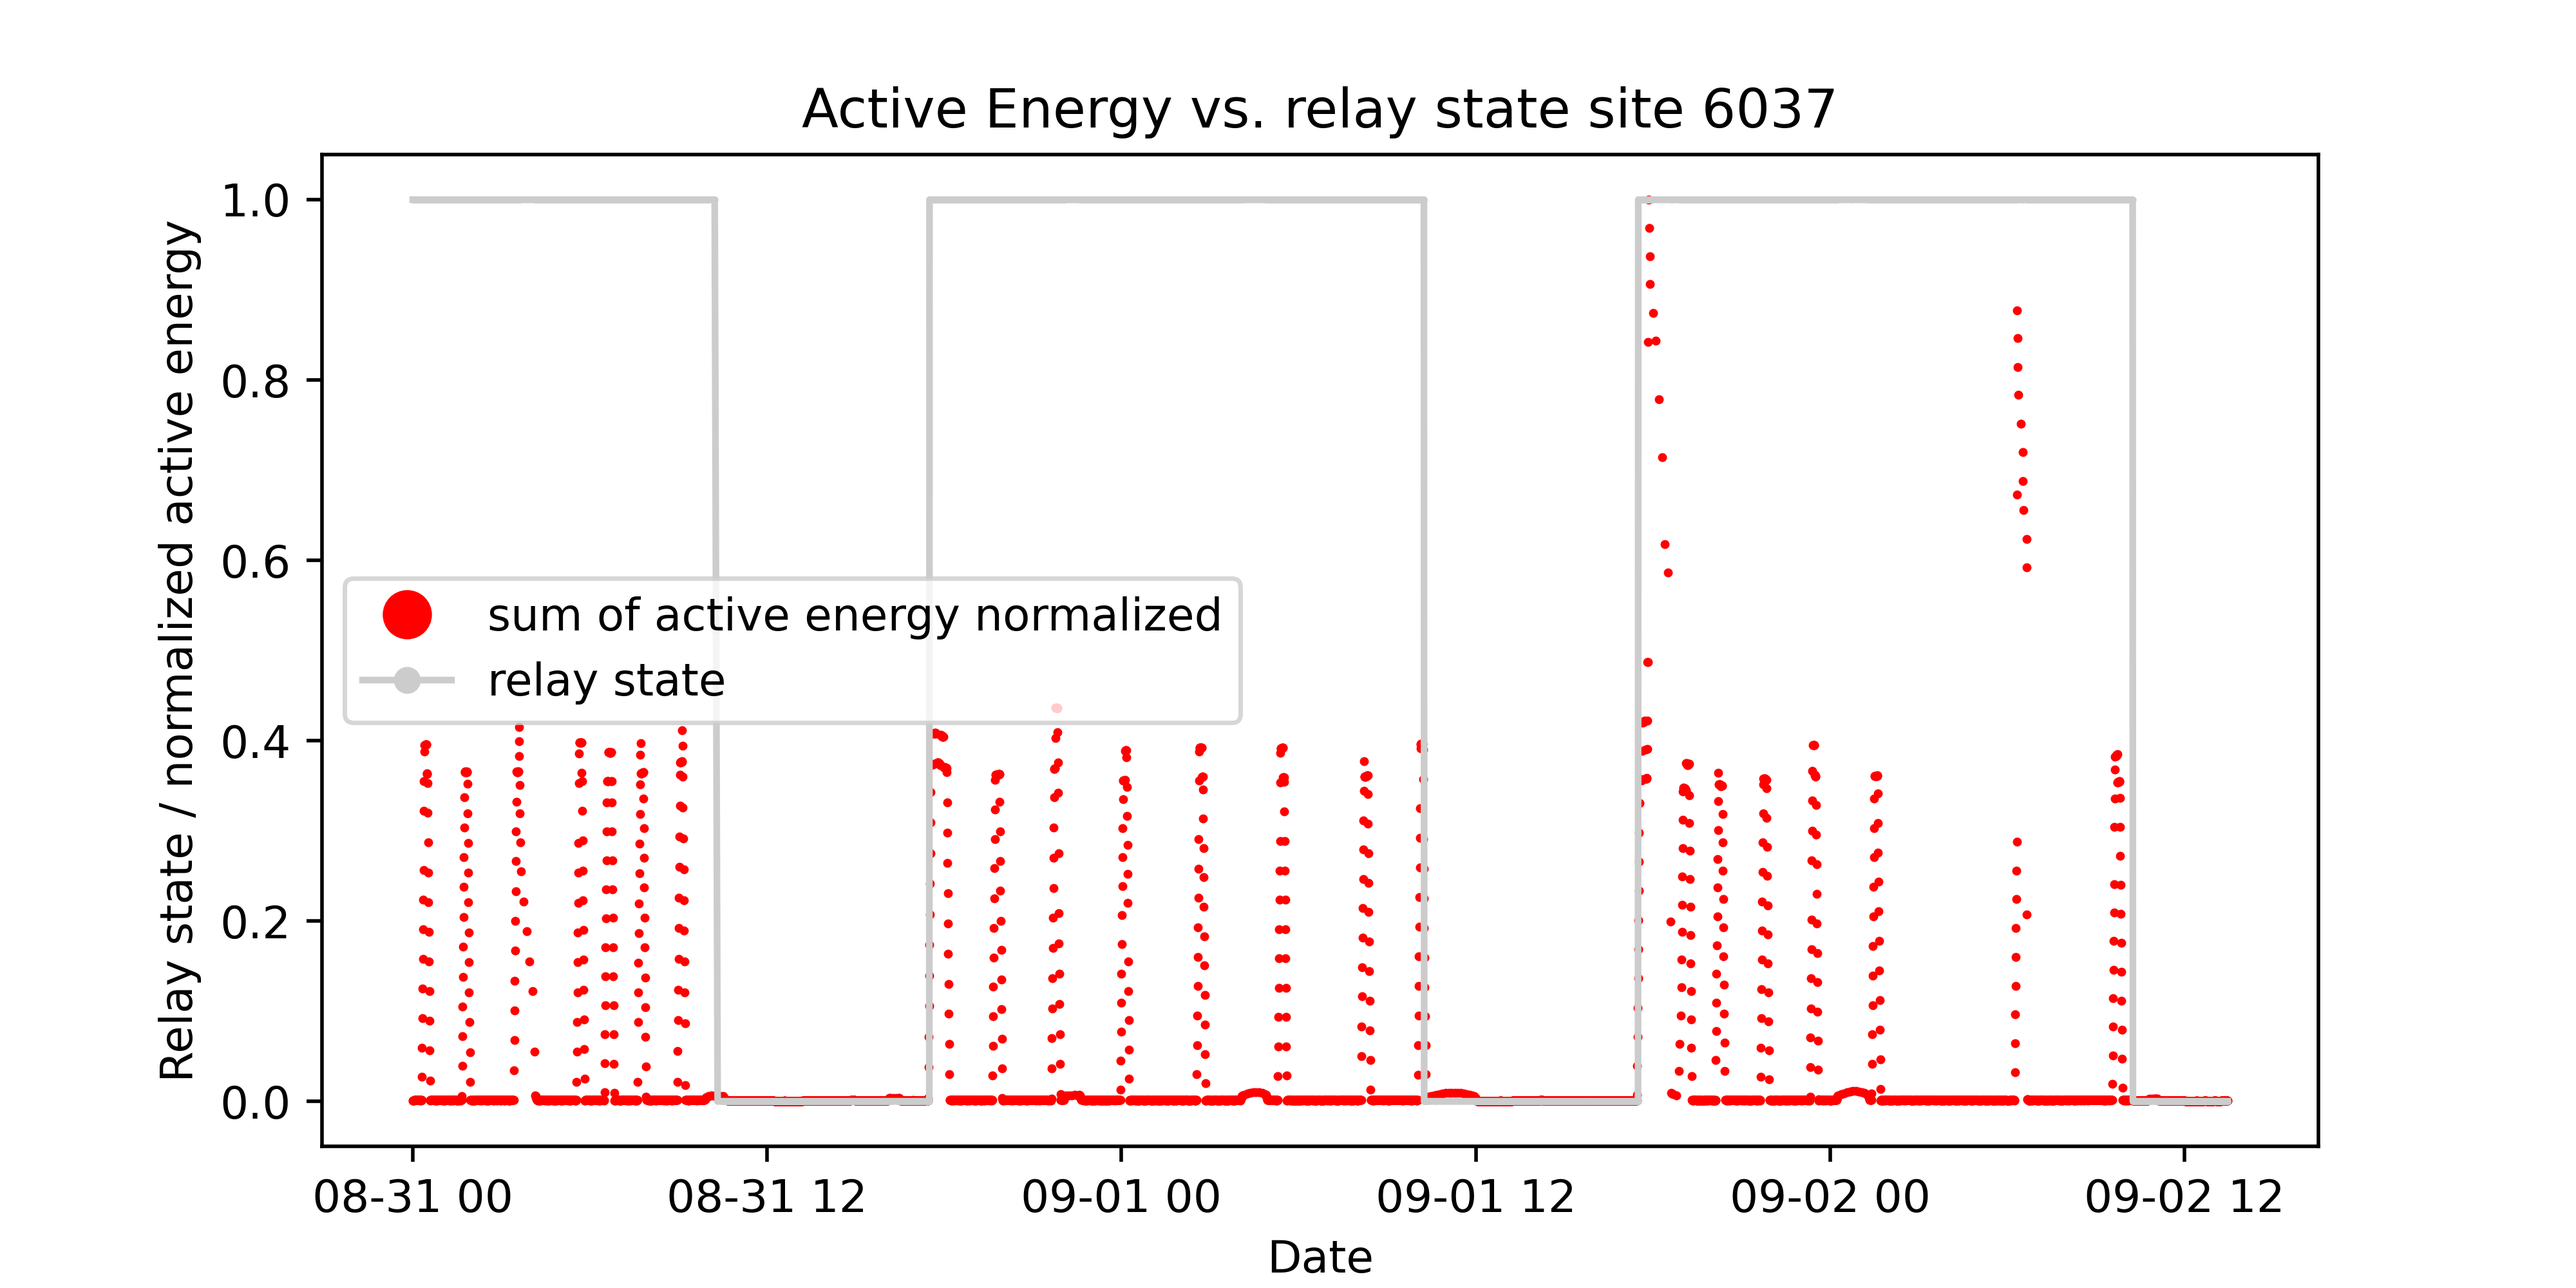
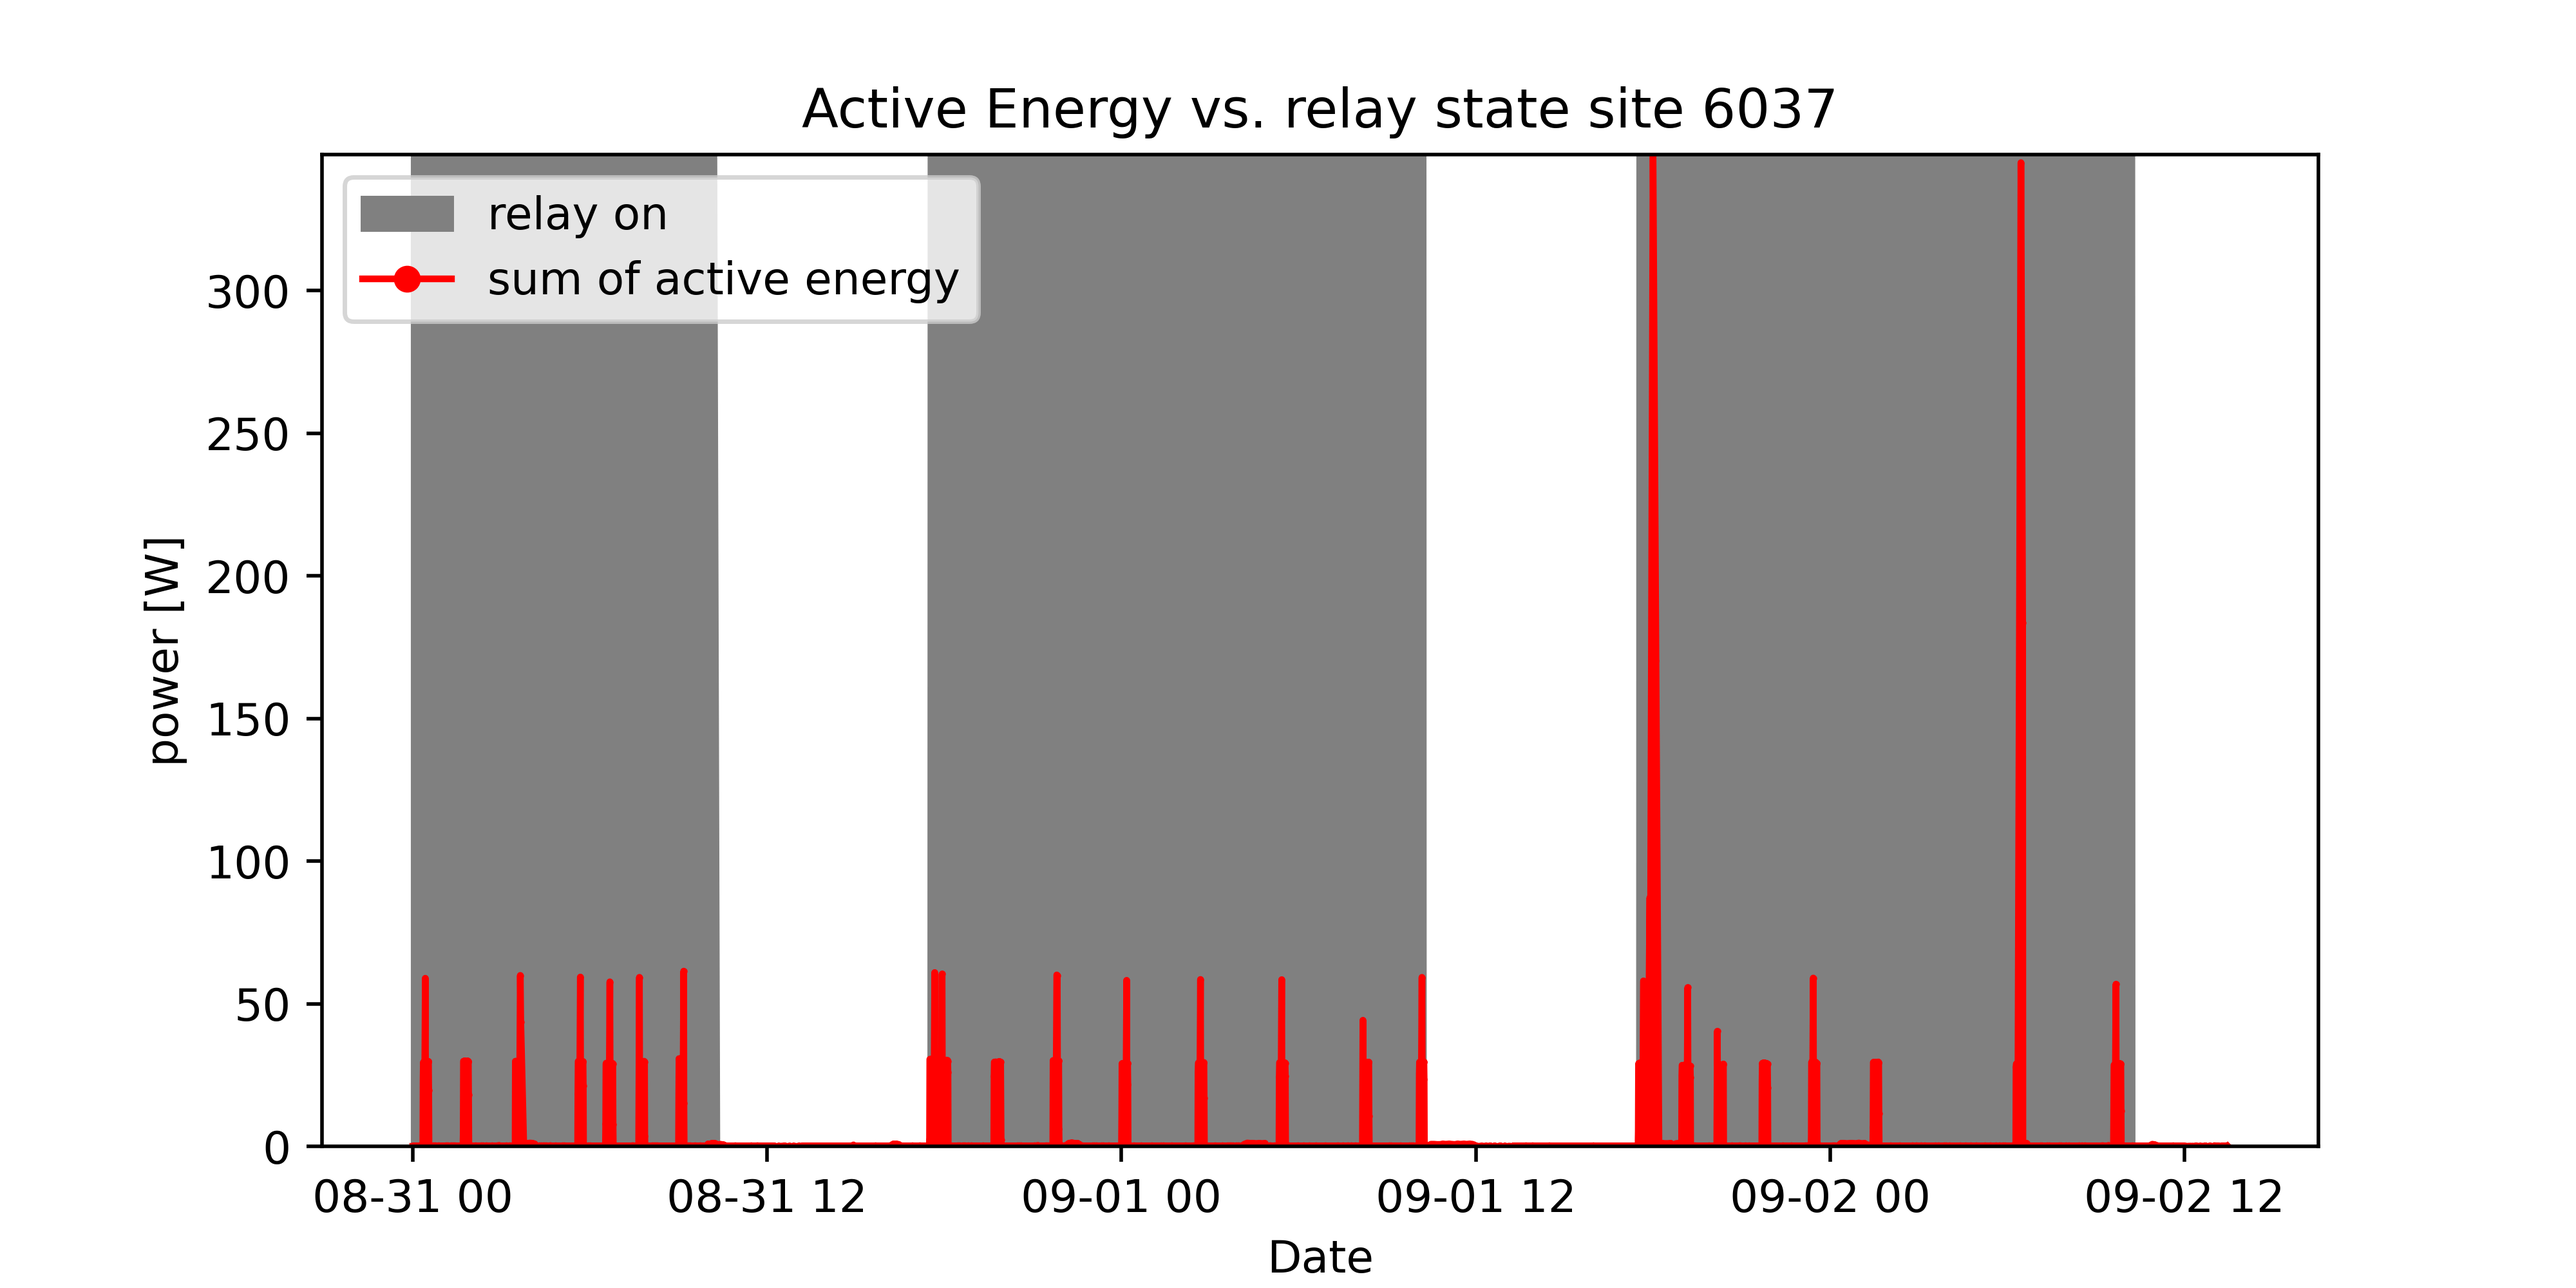
add plots

diff --git a/src/plot_active_energy_relay_one_device.py b/src/plot_active_energy_relay_one_device.py
@@ -5,7 +5,7 @@ import datetime as dt
 import numpy as np
 import json
 import re
-
+import os
 
 
 def normalize(values: list) -> list:
@@ -62,13 +62,22 @@ def plot_data(path: str):
 
     plt.figure(figsize=(8, 4))
     # use diff values because other values store the absolute values
+    # multiply by 0.012 to get kW (units are 0.1Wh/30 sec)
     active_energy_values = [
-        data["L1_active_energy_diff"][idx]
-        + data["L2_active_energy_diff"][idx]
-        + data["L3_active_energy_diff"][idx]
+        (
+            data["L1_active_energy_diff"][idx]
+            + data["L2_active_energy_diff"][idx]
+            + data["L3_active_energy_diff"][idx]
+        )
+        * 0.012
         for idx in data["L1_active_energy_diff"].keys()
     ]
-    active_energy_values_running_mean = get_running_mean(active_energy_values, 1)
+
+    # if influence_range=0, no running mean is calculated
+    active_energy_values_running_mean = get_running_mean(
+        active_energy_values, influence_range=0
+    )
+    max_value = max(active_energy_values_running_mean)
 
     # convert strings of timestamps to datetime objects for plotting
     x_values = np.array(list(data["Timestamp"].values()))
@@ -76,28 +85,35 @@ def plot_data(path: str):
         dt.datetime.strptime(x_value, "%Y-%m-%d %H:%M:%S") for x_value in x_values
     ]
 
-    plt.plot(
-        x_values_dates,
-        data["relay_state"].values(),
-        marker=".",
-        color="0.8",
-        label="relay state",
-        markersize=1.0,
-    )
+    data_relay = [
+        max_value * relay_state for relay_state in data["relay_state"].values()
+    ]
+
+    # plt.plot(
+    #     x_values_dates,
+    #     data_relay,
+    #     marker=".",
+    #     color="0.8",
+    #     label="relay state",
+    #     markersize=1.0,
+    # )
+    plt.fill_between(x_values_dates, 0.0, data_relay, color="grey", label="relay on")
     plt.plot(
         x_values_dates,
         active_energy_values_running_mean,
         marker=".",
-        linestyle="None",
         color="r",
-        label="sum of active energy normalized",
-        markersize=2.0,
+        label="sum of active energy",
+        markersize=1.0,
     )
+    plt.fill_between(x_values_dates, 0.0, active_energy_values_running_mean, color="r")
 
     plt.title("Active Energy vs. relay state site " + str(site_number))
-    plt.ylabel("Relay state / normalized active energy")
+    plt.ylabel("power [kW]")
     plt.xlabel("Date")
     plt.legend(markerscale=10.0)
+
+    plt.margins(y=0)
     plt.savefig(
         "../plots/active_energy_vs_relay_site_" + str(site_number) + ".png",
         dpi=500,
@@ -105,10 +121,34 @@ def plot_data(path: str):
     )
 
 
+def get_filelist() -> list:
+    """
+    Function to get a list of all json files one wants to include in an analysis.
+    You have to have already created a directory and included all necessary json files before calling this function.
+    """
+
+    root = tk.Tk()
+    root.withdraw()
+    print("select the path of the directory where the json data is stored")
+    directory_path = fd.askdirectory()
+    os.makedirs(directory_path + "_cleaned", exist_ok=True)
+
+    filenames = os.listdir(directory_path)
+    filenames = [file for file in filenames if file.endswith(".json")]
+
+    return [directory_path + "/" + filename for filename in filenames]
+
+
 if __name__ == "__main__":
+    # plot one file
     root = tk.Tk()
     root.withdraw()
     print("select the path of the file where the json data is stored")
     path_enflate_data = fd.askopenfilename()
 
     plot_data(path_enflate_data)
+
+    # # plot all files
+    # files = get_filelist()
+    # for file in files:
+    #     plot_data(file)

diff --git a/src/cleanup_data.py b/src/cleanup_data.py
@@ -72,11 +72,9 @@ def add_difference(data: dict, difference_list: list) -> dict:
         values = list(data[name_difference].values())
         size = len(values)
         diff = [0.0] + [
-            value2 - value1
+            abs(value2 - value1)
             for value1, value2 in zip(values[0 : size - 1], values[1:size])
         ]
-        if sum(diff) < 0:
-            diff = -1.0 * diff
         data[name_difference + "_diff"] = {}
         for i, val in enumerate(diff):
             data[name_difference + "_diff"][str(i + 1)] = val
@@ -182,8 +180,6 @@ def cleanup_json(
 
     difference_list = ["L1_active_energy", "L2_active_energy", "L3_active_energy"]
 
-    data = add_difference(data, difference_list)
-
     if type == "Heatpump" or type == "Add.Heating":
         keys_heatpump = [
             key for key, device in data["Device"].items() if device == "Heatpump"
@@ -197,6 +193,8 @@ def cleanup_json(
                 data_heatpump[key][key_heatpump] = data[key][key_heatpump]
                 data[key].pop(key_heatpump, None)
 
+        data_heatpump = add_difference(data_heatpump, difference_list)
+        data = add_difference(data, difference_list)
         name, ending = cleaned_path.split(".", 1)
         filename_heatpump = name + "_heatpump.json"
         filename_add_heat = name + "_add_heat.json"
@@ -212,6 +210,7 @@ def cleanup_json(
                 json_str = json.dumps(sort_and_rename_keys(data), indent=4)
                 f.write(json_str)
         return
+    data = add_difference(data, difference_list)
 
     # make shure it is not empty
     if "Device" in data.keys() and data["Device"]:
@@ -243,7 +242,7 @@ def get_filelist() -> list:
 
 if __name__ == "__main__":
     filelist_to_get_and_store = get_filelist()
-    last_date = dt.datetime(year=2024, month=8, day=28)
+    last_date = dt.datetime(year=2024, month=8, day=31)
     for i, (original_file, cleaned_file) in enumerate(filelist_to_get_and_store):
         cleanup_json(
             original_file,
@@ -252,4 +251,6 @@ if __name__ == "__main__":
             delete_30_sec=False,
             delete_15_min=True,
         )
-        print(f"{int(float(i * 100) / len(filelist_to_get_and_store))}% done")
+        print(
+            f"{int(float(i * 100) / len(filelist_to_get_and_store))}% done: {cleaned_file}"
+        )
